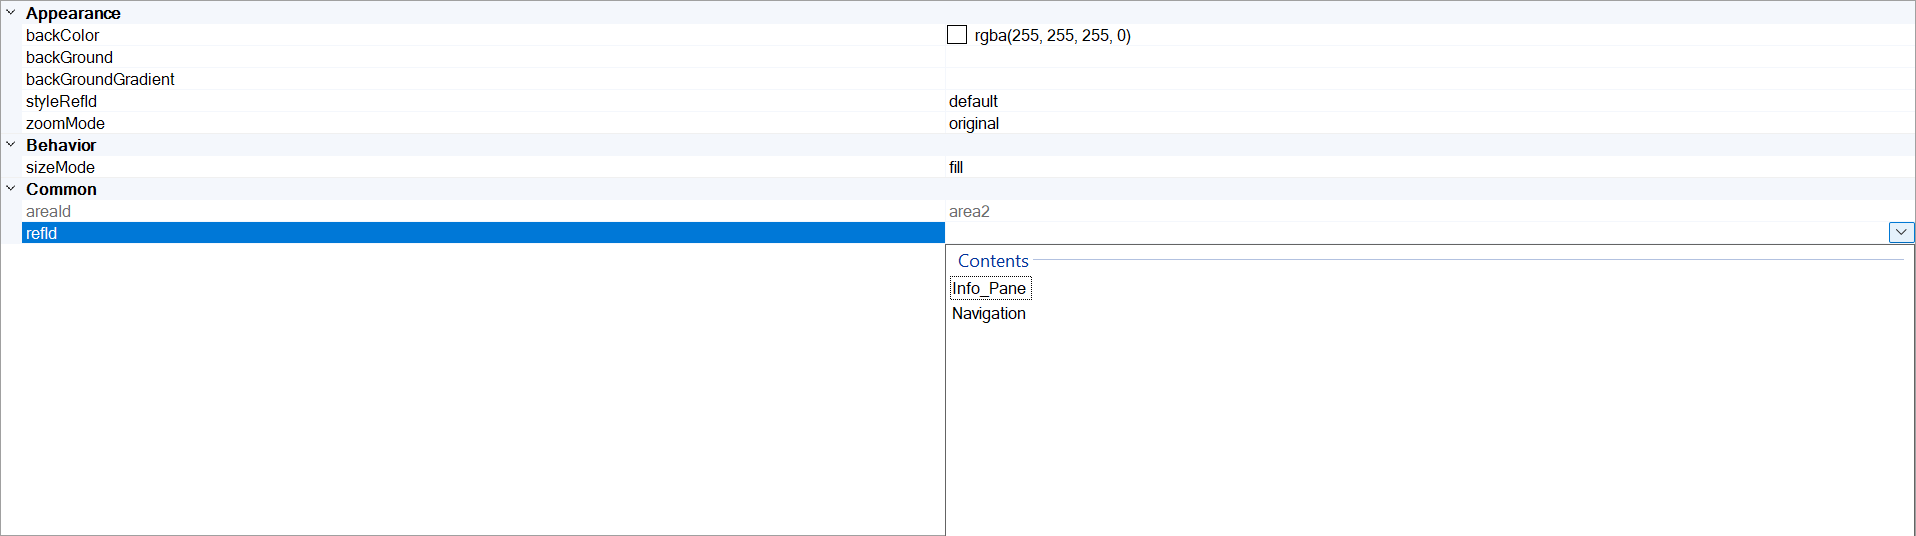
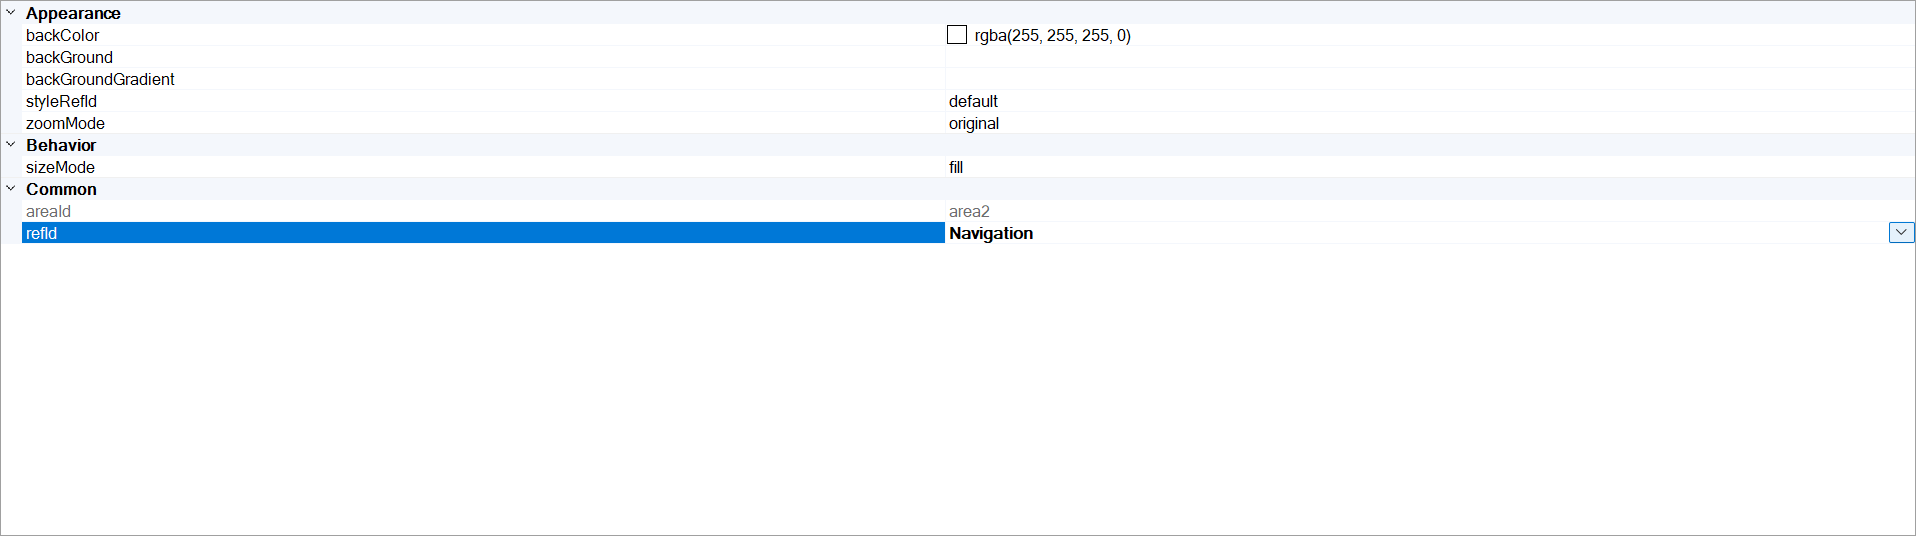
May 6, 2026, 3:21 PM

Changed region(s): [[0.4927, 0.9851, 1.0, 1.0], [0.4927, 0.4179, 0.5543, 0.597]]

diff --git a/FlaUITests/Util/MappView.cs b/FlaUITests/Util/MappView.cs
@@ -329,10 +329,13 @@ namespace FlaUITests.Util {
             AutomationElement page_0ConfigWorkspaceWindow = TreeConfig.IdeMain.Workspace.FindAllChildren(cf => cf.ByControlType(ControlType.Window)).First(cf => cf.Name.IndexOf("page_0.page") >= 0);
             Mouse.Click(editorCenter);
             AutomationElement editor = page_0ConfigWorkspaceWindow.FindFirstDescendant(cf => cf.ByControlType(ControlType.Document).And(cf.ByName("Page-Editor")));
-            TreeConfig.IdeMain.SetIWorkspaceMinSize(editor, percent:true);
-            Mouse.Click(new Point {X = editor.BoundingRectangle.Left + (int)(editor.BoundingRectangle.Width * 50/800), Y = editor.BoundingRectangle.Top + (int)(editor.BoundingRectangle.Height * 300/600)});
+    //        TreeConfig.IdeMain.SetIWorkspaceMinSize(editor, percent:true);
+            Mouse.MoveTo(new Point {X = editor.BoundingRectangle.Left + (int)(editor.BoundingRectangle.Width * 50/800), Y = editor.BoundingRectangle.Top + (int)(editor.BoundingRectangle.Height * 300/600)});
+
+            Mouse.Click();//(new Point {X = editor.BoundingRectangle.Left + (int)(editor.BoundingRectangle.Width * 50/800), Y = editor.BoundingRectangle.Top + (int)(editor.BoundingRectangle.Height * 300/600)});
             SelectFromMappViewDropDown(new string [] {"Common", "refId"}, "Navigation");
-            Mouse.Click(new Point {X = editor.BoundingRectangle.Left + (int)(editor.BoundingRectangle.Width * 400/800), Y = editor.BoundingRectangle.Top + (int)(editor.BoundingRectangle.Height * 50/600)});
+            Mouse.MoveTo(new Point {X = editor.BoundingRectangle.Left + (int)(editor.BoundingRectangle.Width * 400/800), Y = editor.BoundingRectangle.Top + (int)(editor.BoundingRectangle.Height * 50/600)});
+            Mouse.Click();
             SelectFromMappViewDropDown(new string [] {"Common", "refId"}, "Info_Pane");
             TreeConfig.IdeMain.SaveAll();
 

diff --git a/FlaUITests/obj/Debug/net481/TestProject1.AssemblyInfo.cs b/FlaUITests/obj/Debug/net481/TestProject1.AssemblyInfo.cs
@@ -1,6 +1,7 @@
 //------------------------------------------------------------------------------
 // <auto-generated>
 //     This code was generated by a tool.
+//     Runtime Version:4.0.30319.42000
 //
 //     Changes to this file may cause incorrect behavior and will be lost if
 //     the code is regenerated.
@@ -13,7 +14,7 @@ using System.Reflection;
 [assembly: System.Reflection.AssemblyCompanyAttribute("TestProject1")]
 [assembly: System.Reflection.AssemblyConfigurationAttribute("Debug")]
 [assembly: System.Reflection.AssemblyFileVersionAttribute("1.0.0.0")]
-[assembly: System.Reflection.AssemblyInformationalVersionAttribute("1.0.0+8345a77b9ac8473c201c561fd66d261bf42f9e80")]
+[assembly: System.Reflection.AssemblyInformationalVersionAttribute("1.0.0+5ff87f4366ba6ff71a9a6185ab790cb0cdb23c63")]
 [assembly: System.Reflection.AssemblyProductAttribute("TestProject1")]
 [assembly: System.Reflection.AssemblyTitleAttribute("TestProject1")]
 [assembly: System.Reflection.AssemblyVersionAttribute("1.0.0.0")]